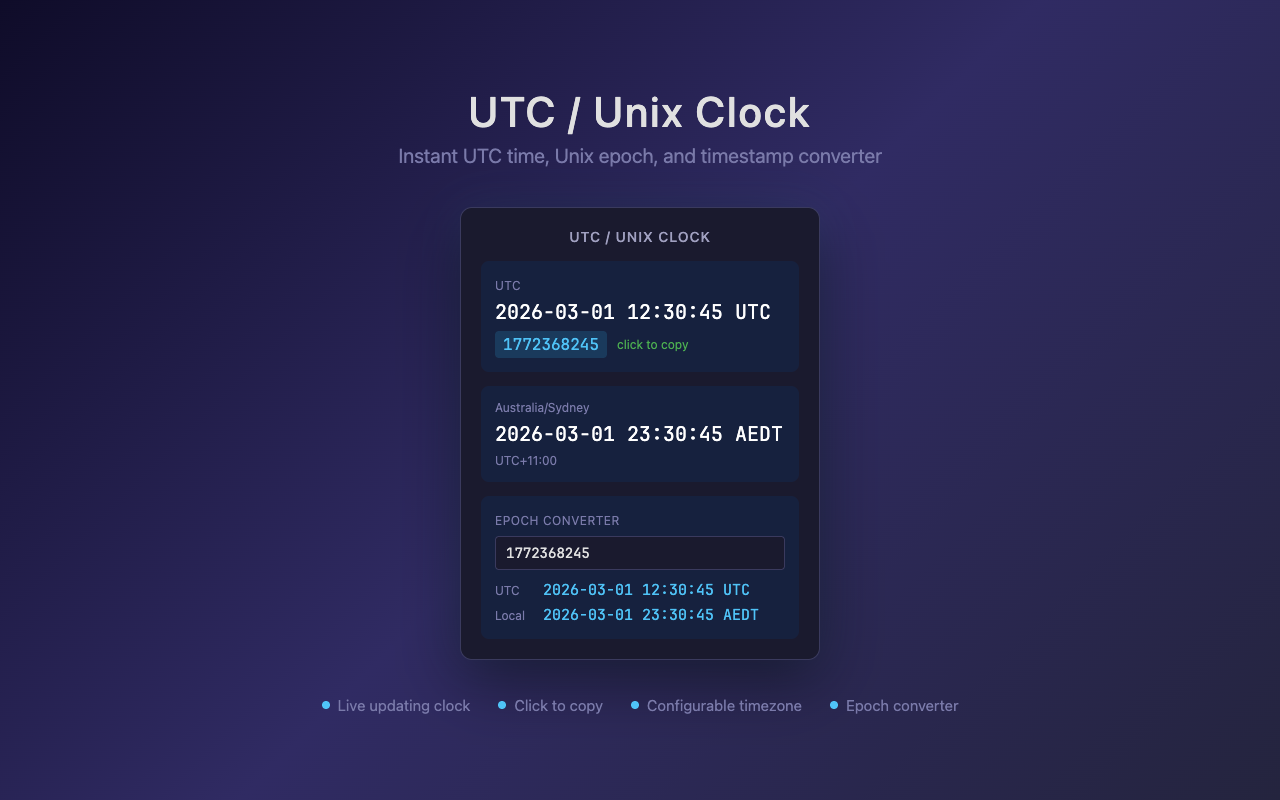
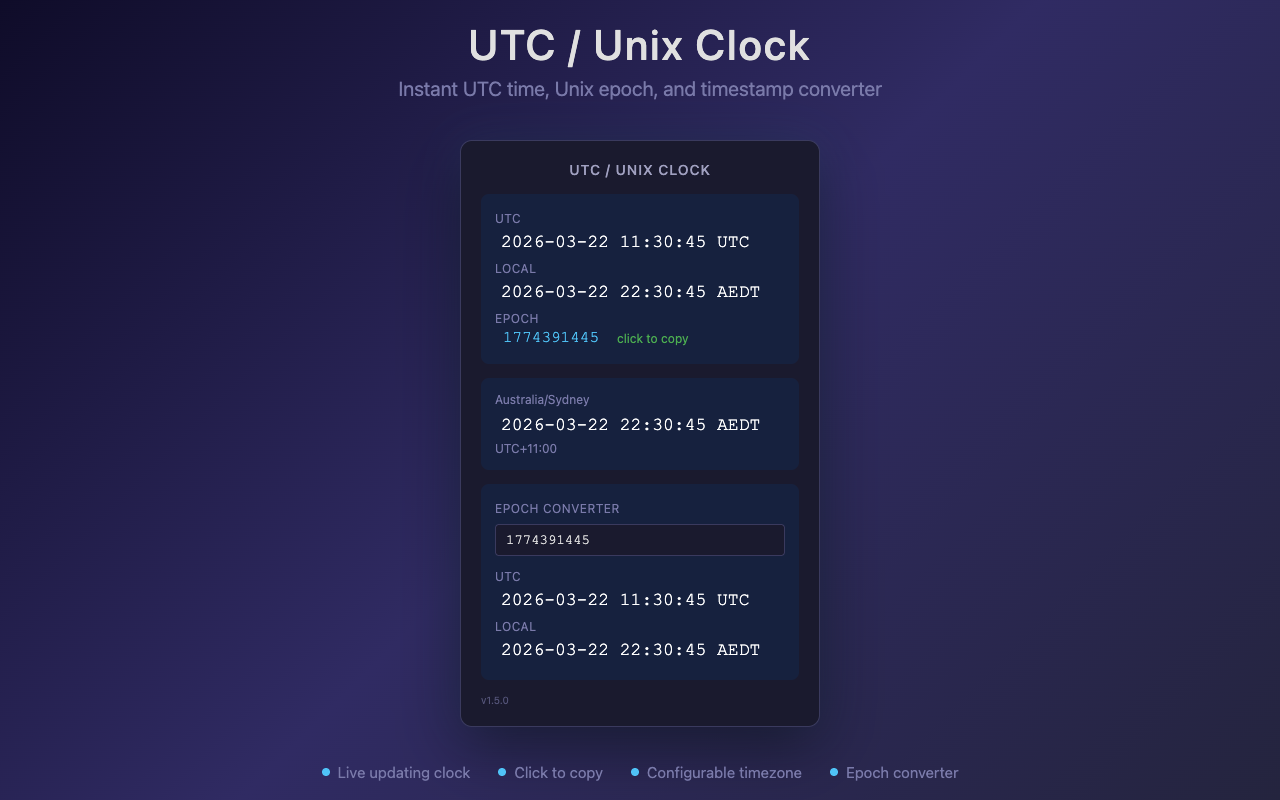
docs: update Chrome Web Store screenshot to match v1.5.0 UI

diff --git a/store/screenshot.html b/store/screenshot.html
@@ -60,9 +60,11 @@
     }
     .time-value {
       font-family: 'JetBrains Mono', 'Fira Code', 'Courier New', monospace;
-      font-size: 20px;
+      font-size: 18px;
       color: #ffffff;
-      margin: 6px 0;
+      margin: 4px 0;
+      padding: 2px 6px;
+      border-radius: 4px;
       white-space: nowrap;
     }
     .epoch-row {
@@ -74,12 +76,10 @@
       font-family: 'JetBrains Mono', 'Fira Code', 'Courier New', monospace;
       font-size: 16px;
       color: #4fc3f7;
-      background: #1a3a5c;
       padding: 3px 8px;
       border-radius: 4px;
-      cursor: pointer;
     }
-    .copy-label {
+    .copy-hint {
       font-size: 12px;
       color: #4caf50;
     }
@@ -107,22 +107,12 @@
     .convert-results {
       margin-top: 10px;
     }
-    .convert-row {
-      display: flex;
-      align-items: center;
-      gap: 8px;
-      margin-top: 5px;
-    }
-    .convert-label {
-      font-size: 12px;
+    .version {
+      text-align: left;
+      font-size: 10px;
       color: #7a7aaa;
-      min-width: 40px;
-    }
-    .convert-value {
-      font-family: 'JetBrains Mono', 'Fira Code', 'Courier New', monospace;
-      font-size: 15px;
-      color: #4fc3f7;
-      cursor: pointer;
+      margin-top: 6px;
+      opacity: 0.6;
     }
     .features {
       display: flex;
@@ -155,33 +145,34 @@
 
     <div class="time-block">
       <label>UTC</label>
-      <div class="time-value">2026-03-01 12:30:45 UTC</div>
+      <div class="time-value">2026-03-22 11:30:45 UTC</div>
+      <label>LOCAL</label>
+      <div class="time-value">2026-03-22 22:30:45 AEDT</div>
+      <label>EPOCH</label>
       <div class="epoch-row">
-        <span class="epoch-value">1772368245</span>
-        <span class="copy-label">click to copy</span>
+        <span class="epoch-value">1774391445</span>
+        <span class="copy-hint">click to copy</span>
       </div>
     </div>
 
     <div class="time-block">
       <div class="tz-name">Australia/Sydney</div>
-      <div class="time-value">2026-03-01 23:30:45 AEDT</div>
+      <div class="time-value">2026-03-22 22:30:45 AEDT</div>
       <div class="offset">UTC+11:00</div>
     </div>
 
     <div class="time-block">
       <label>Epoch Converter</label>
-      <input class="converter-input" value="1772368245" readonly />
+      <input class="converter-input" value="1774391445" readonly />
       <div class="convert-results">
-        <div class="convert-row">
-          <span class="convert-label">UTC</span>
-          <span class="convert-value">2026-03-01 12:30:45 UTC</span>
-        </div>
-        <div class="convert-row">
-          <span class="convert-label">Local</span>
-          <span class="convert-value">2026-03-01 23:30:45 AEDT</span>
-        </div>
+        <label>UTC</label>
+        <div class="time-value">2026-03-22 11:30:45 UTC</div>
+        <label>LOCAL</label>
+        <div class="time-value">2026-03-22 22:30:45 AEDT</div>
       </div>
     </div>
+
+    <div class="version">v1.5.0</div>
   </div>
 
   <div class="features">
